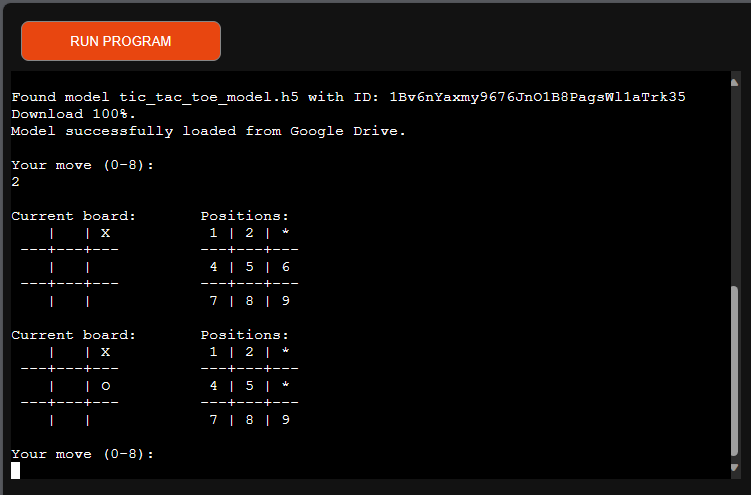
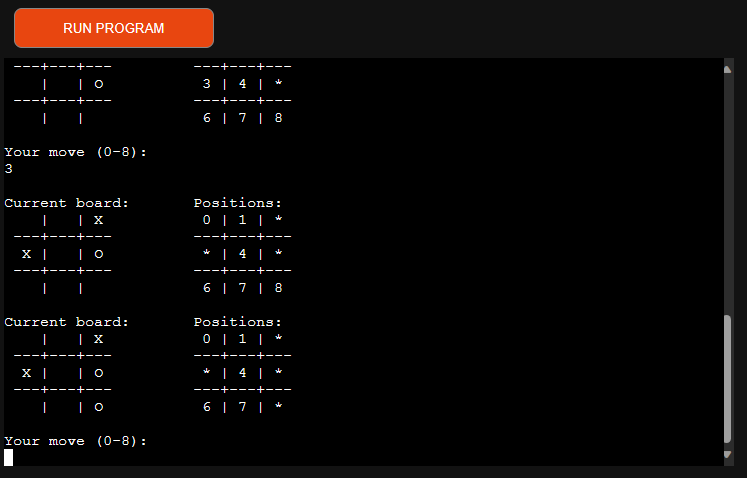
docs: update readme, add info about UI

diff --git a/README.md b/README.md
@@ -2,7 +2,7 @@
 
 Play tic-tac-toe with artificial intelligence? This could be fun!
 
-[View the live project here.](https://tic-tac-toe-with-ai-pygame-2d980f4c2d09.herokuapp.com/)
+[view the live project here.](https://tic-tac-toe-with-ai-pygame-2d980f4c2d09.herokuapp.com/)
 
 ![Start display](resources/images/tic_tac_toe_start.jpg)
 
@@ -110,6 +110,7 @@ The AI learns with each game and sometimes makes surprisingly good moves already
 
 - Custom-designed user interface functions (`tic_tac_toe_ui.py`) facilitate player interaction and display the game state in a clear and intuitive manner.
 - The game board and leaderboard are displayed in the console, making the game easily playable from any terminal.
+- Current player's position and score are highlighted in yellow color to easily track their standing among other players.
 
 <img src="resources/images/LeaderBoard.png" width="800" alt="Game Leaderboard">
 
@@ -195,9 +196,9 @@ tic-tac-toe/
 
   <img src="resources/images/ErrorWrongStartNumberInPositionsBoard.png" width="600" alt="Incorrect start number">
 
-- **Solution:** Fixed import library name.
+- **Solution:** Fixed one line in display_board func (tic_tac_toe_ui module)
 
-  <img src="resources/images/ErrorPacketNameFixed.png" width="600" alt="Fixed import library name">
+  <img src="resources/images/ErrorWrongStartNumberInPositionsBoardFix.png" width="600" alt="Fixed incorrect first number">
 
 [Back to Table of Contents](#table-of-contents)
 
